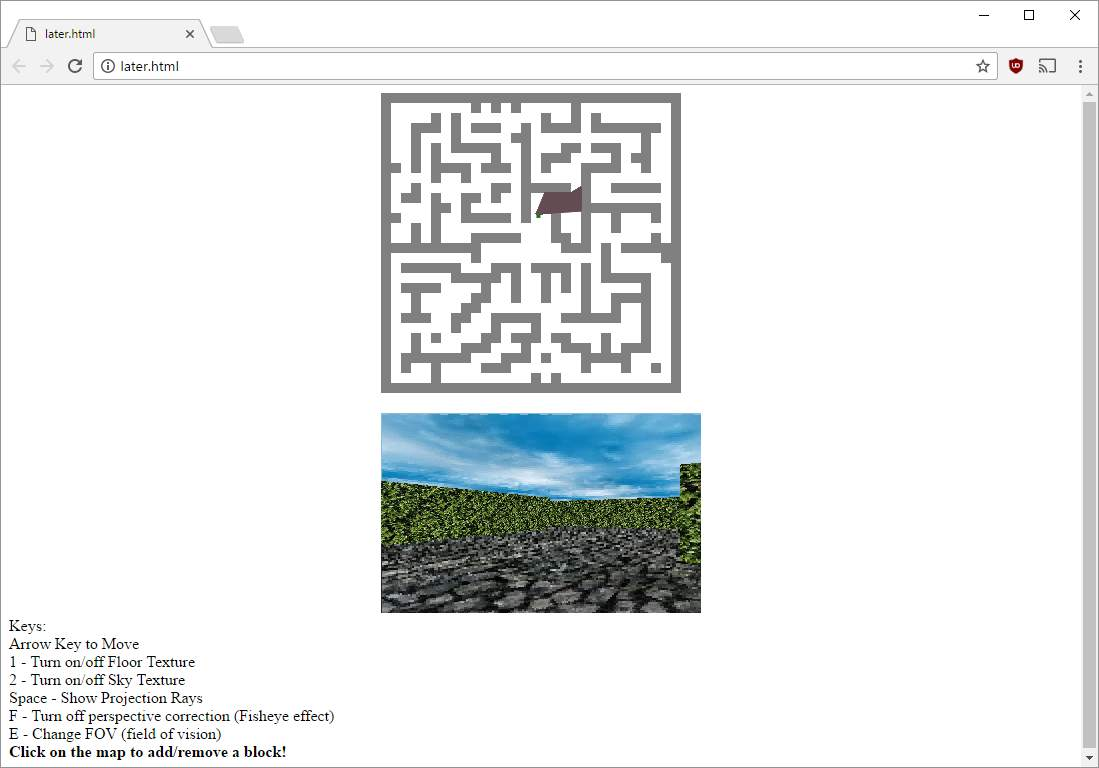
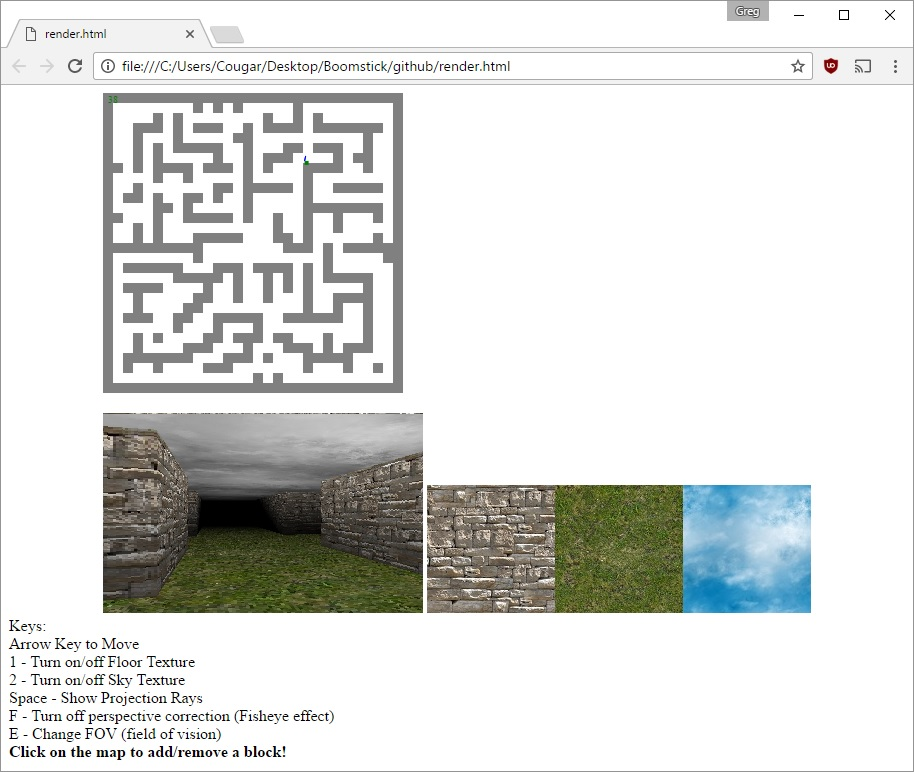
New screenshot

diff --git a/README.md b/README.md
@@ -5,7 +5,9 @@ Simple raycasting with perspective correction, textured walls, floor and ceiling
 
 Very slow, probably due to the way I coded it and the limited fillrate of canvas. Really could use some refactoring; like most of my stuff on github, it's a hack job.
 
-Runs best in Firefox. Chrome and IE11 are doable, just slow. Runs like crud in Edge, something's wrong with the keypresses because there is huge latency.
+Recently modified to use direct pixel access, fake shading/fog, moving clouds (which only read the green bits to make it look overcast). It's faster now, still not speedy. Needs to be reorganized and less hacky.
+
+Works in Firefox, Chrome, IE11. Edge has a keypress bug, so it works, but it's wonky.
 
 ![alt tag](https://raw.githubusercontent.com/gregfrazier/later/master/sample.jpg)
 
